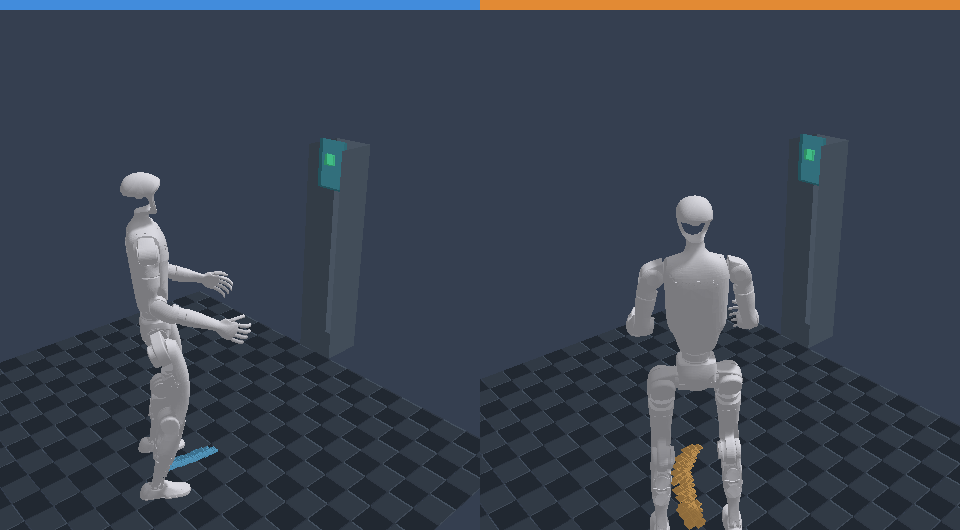
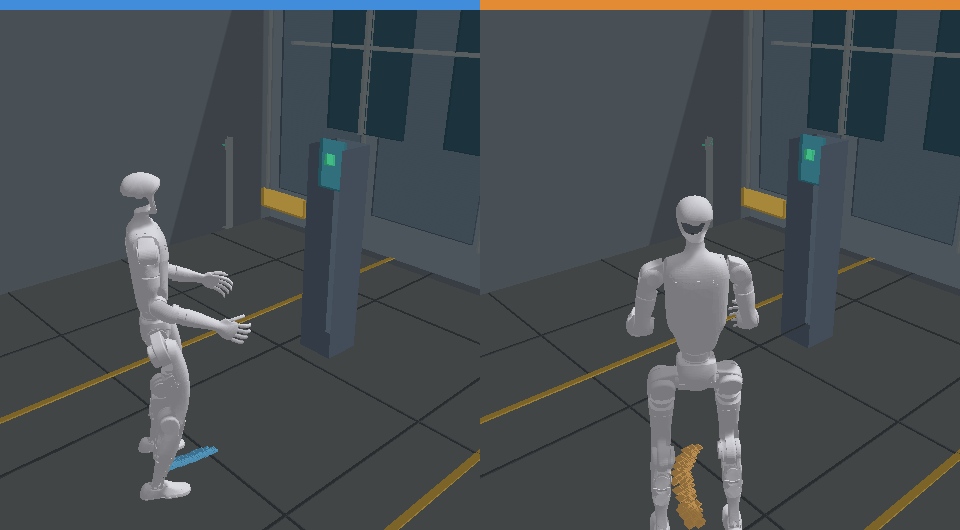
improve G1 hero test bay background
Replace the flat G1 stride hero backdrop with a render-only robotics test bay, regenerate media, and document the visual-only environment.

diff --git a/examples/63_g1_stride_gif/main.rs b/examples/63_g1_stride_gif/main.rs
@@ -39,7 +39,7 @@ const WALK_STRIDE_RAD: f64 = 0.065;
 const WALK_FOOT_LIFT_RAD: f64 = 0.12;
 const WALK_CYCLE_STEPS: u64 = 100;
 const TRAIL_EVERY_STEPS: u64 = 36;
-const CLEAR_COLOR: [f32; 4] = [0.035, 0.05, 0.08, 1.0];
+const CLEAR_COLOR: [f32; 4] = [0.025, 0.035, 0.05, 1.0];
 const COMMAND_MIN_WINDOW_M: f64 = 0.12;
 
 const TORQUE_LINKS: [&str; 8] = [
@@ -362,11 +362,10 @@ fn render_panel(
     scene.items.retain(|item| {
         !matches!(item.shape, VisualShape::Box { size_m } if size_m.x > 5.0 && size_m.z > 5.0)
     });
-    append_checker_floor(
+    append_realistic_test_bay(
         &mut scene,
         walker.capture_start_xz_m[0],
         walker.capture_start_xz_m[1],
-        0.12,
     );
     for position in &walker.trail_m {
         scene.items.push(RenderSceneItem {
@@ -400,32 +399,159 @@ fn render_panel(
     output.color.rgba8
 }
 
-fn append_checker_floor(scene: &mut RenderScene, center_x_m: f64, center_z_m: f64, tile_m: f64) {
-    let snap = |value: f64| (value / (2.0 * tile_m)).floor() * 2.0 * tile_m;
-    for row in -9..=9 {
-        for column in -9..=9 {
-            let color = if (row + column) & 1 == 0 {
-                [0.11, 0.15, 0.21, 1.0]
-            } else {
-                [0.055, 0.075, 0.11, 1.0]
-            };
-            scene.items.push(RenderSceneItem {
-                transform: Transform3 {
-                    translation: Vec3::new(
-                        snap(center_x_m) + column as f64 * tile_m,
-                        -0.008,
-                        snap(center_z_m) + row as f64 * tile_m,
-                    ),
-                    rotation: rne_math::Quat::IDENTITY,
-                    scale: Vec3::new(tile_m * 0.96, 0.008, tile_m * 0.96),
-                },
-                shape: VisualShape::Box { size_m: Vec3::ONE },
-                color_rgba: color,
-                mesh: None,
-                base_color_texture: None,
-            });
-        }
+fn append_realistic_test_bay(scene: &mut RenderScene, center_x_m: f64, center_z_m: f64) {
+    // The G1 physics scene intentionally stays minimal. These render-only props make the
+    // hero capture read as a real robotics test bay without changing contacts or dynamics.
+    const FLOOR: [f32; 4] = [0.19, 0.21, 0.22, 1.0];
+    const FLOOR_SEAM: [f32; 4] = [0.075, 0.09, 0.10, 1.0];
+    const SAFETY_YELLOW: [f32; 4] = [0.72, 0.46, 0.08, 1.0];
+    const WALL: [f32; 4] = [0.14, 0.17, 0.20, 1.0];
+    const WALL_PANEL: [f32; 4] = [0.09, 0.13, 0.17, 1.0];
+    const METAL: [f32; 4] = [0.30, 0.34, 0.36, 1.0];
+    const WINDOW: [f32; 4] = [0.035, 0.10, 0.14, 1.0];
+    const LIGHT: [f32; 4] = [0.82, 0.86, 0.78, 1.0];
+    const STATUS: [f32; 4] = [0.10, 0.74, 0.48, 1.0];
+
+    let floor_center = Vec3::new(center_x_m + 0.25, -0.035, center_z_m - 0.35);
+    push_box(scene, floor_center, Vec3::new(5.4, 0.07, 4.6), FLOOR);
+
+    for x_offset in [-1.8, -0.9, 0.0, 0.9, 1.8] {
+        push_box(
+            scene,
+            Vec3::new(center_x_m + x_offset, 0.004, center_z_m - 0.35),
+            Vec3::new(0.012, 0.006, 4.35),
+            FLOOR_SEAM,
+        );
     }
+    for z_offset in [-1.4, -0.45, 0.5, 1.45] {
+        push_box(
+            scene,
+            Vec3::new(center_x_m + 0.25, 0.004, center_z_m + z_offset),
+            Vec3::new(5.25, 0.006, 0.012),
+            FLOOR_SEAM,
+        );
+    }
+
+    // A pair of inset safety lines gives the walking lane a scale cue and keeps the
+    // measured trails readable against the matte floor.
+    for z_offset in [-0.82, 0.82] {
+        push_box(
+            scene,
+            Vec3::new(center_x_m + 0.25, 0.009, center_z_m + z_offset),
+            Vec3::new(4.8, 0.008, 0.035),
+            SAFETY_YELLOW,
+        );
+    }
+
+    // Corner walls: the camera looks into the corner, so the clear color is only a
+    // narrow upper margin rather than an empty flat backdrop.
+    push_box(
+        scene,
+        Vec3::new(center_x_m + 2.45, 1.35, center_z_m - 0.35),
+        Vec3::new(0.10, 2.7, 4.7),
+        WALL,
+    );
+    push_box(
+        scene,
+        Vec3::new(center_x_m + 0.25, 1.35, center_z_m - 2.25),
+        Vec3::new(4.5, 2.7, 0.10),
+        WALL,
+    );
+
+    // Recessed blue wall panels and a few narrow metal mullions suggest a real
+    // calibration room while remaining cheap primitive geometry.
+    for z_offset in [-1.55, -0.55, 0.45, 1.45] {
+        push_box(
+            scene,
+            Vec3::new(center_x_m + 2.385, 1.42, center_z_m + z_offset),
+            Vec3::new(0.018, 2.15, 0.84),
+            WALL_PANEL,
+        );
+        push_box(
+            scene,
+            Vec3::new(center_x_m + 2.32, 1.42, center_z_m + z_offset - 0.5),
+            Vec3::new(0.025, 2.18, 0.018),
+            METAL,
+        );
+    }
+    for z_offset in [-1.05, -0.05, 0.95] {
+        push_box(
+            scene,
+            Vec3::new(center_x_m + 2.31, 1.55, center_z_m + z_offset),
+            Vec3::new(0.026, 1.18, 0.68),
+            WINDOW,
+        );
+        push_box(
+            scene,
+            Vec3::new(center_x_m + 2.285, 1.55, center_z_m + z_offset - 0.36),
+            Vec3::new(0.032, 0.025, 0.72),
+            METAL,
+        );
+        push_box(
+            scene,
+            Vec3::new(center_x_m + 2.285, 1.55, center_z_m + z_offset + 0.36),
+            Vec3::new(0.032, 0.025, 0.72),
+            METAL,
+        );
+        push_box(
+            scene,
+            Vec3::new(center_x_m + 2.275, 1.55, center_z_m + z_offset),
+            Vec3::new(0.035, 1.18, 0.025),
+            METAL,
+        );
+    }
+
+    // A low service rail and a few status strips add depth behind the robot without
+    // competing with the white G1 body.
+    push_box(
+        scene,
+        Vec3::new(center_x_m + 1.95, 0.42, center_z_m - 2.17),
+        Vec3::new(0.08, 0.78, 0.08),
+        METAL,
+    );
+    push_box(
+        scene,
+        Vec3::new(center_x_m + 1.95, 0.78, center_z_m - 2.17),
+        Vec3::new(0.08, 0.06, 0.08),
+        STATUS,
+    );
+    push_box(
+        scene,
+        Vec3::new(center_x_m + 2.38, 0.22, center_z_m - 1.92),
+        Vec3::new(0.04, 0.16, 0.52),
+        SAFETY_YELLOW,
+    );
+
+    // Suspended LED panels catch the existing directional shadows and make the
+    // ceiling area feel intentional without adding a second render pass.
+    for z_offset in [-1.2, 0.0, 1.2] {
+        push_box(
+            scene,
+            Vec3::new(center_x_m + 0.20, 2.55, center_z_m + z_offset),
+            Vec3::new(0.72, 0.035, 0.18),
+            LIGHT,
+        );
+        push_box(
+            scene,
+            Vec3::new(center_x_m + 0.20, 2.49, center_z_m + z_offset),
+            Vec3::new(0.06, 0.12, 0.06),
+            METAL,
+        );
+    }
+}
+
+fn push_box(scene: &mut RenderScene, translation: Vec3, size_m: Vec3, color_rgba: [f32; 4]) {
+    scene.items.push(RenderSceneItem {
+        transform: Transform3 {
+            translation,
+            rotation: rne_math::Quat::IDENTITY,
+            scale: size_m,
+        },
+        shape: VisualShape::Box { size_m: Vec3::ONE },
+        color_rgba,
+        mesh: None,
+        base_color_texture: None,
+    });
 }
 
 fn composite_side_by_side(left: &[u8], right: &[u8]) -> Vec<u8> {

diff --git a/README.md b/README.md
@@ -339,10 +339,10 @@ cargo run -p unitree_g1_gif --example 39_unitree_g1_gif
 <p align="center">
   <picture>
     <source media="(prefers-reduced-motion: reduce)" srcset="docs/media/unitree-g1-learned-stride.png">
-    <img src="docs/media/unitree-g1-learned-stride.gif" alt="Side-by-side official Unitree G1 stepper and command-conditioned differential-steering stride, with measured-window trails" width="960">
+    <img src="docs/media/unitree-g1-learned-stride.gif" alt="Side-by-side official Unitree G1 stepper and command-conditioned differential-steering stride in a robotics test bay, with measured-window trails" width="960">
   </picture>
   <br>
-  <sub>The blue panel is the plain hybrid stepper at the v0.1 forward command (<code>0.0276&nbsp;m/s</code>); the orange panel uses the pinned learned torque overlay with the same speed command plus <code>+0.05&nbsp;rad/s</code> differential steering. Both panels discard the same 8&nbsp;s transient before the commanded walker clears <code>0.196&nbsp;m</code> and <code>0.235&nbsp;m</code> in its measured windows while staying at full height. The real wgpu capture is generated by example 63; the headless smoke path is part of CI.</sub>
+  <sub>The blue panel is the plain hybrid stepper at the v0.1 forward command (<code>0.0276&nbsp;m/s</code>); the orange panel uses the pinned learned torque overlay with the same speed command plus <code>+0.05&nbsp;rad/s</code> differential steering. Both panels discard the same 8&nbsp;s transient before the commanded walker clears <code>0.196&nbsp;m</code> and <code>0.235&nbsp;m</code> in its measured windows while staying at full height. The real wgpu capture is staged in a render-only robotics test bay with floor panels, safety markings, an equipment wall, and overhead fixtures; example 63 generates it, while the headless smoke path remains part of CI.</sub>
 </p>
 
 ```bash

diff --git a/docs/G1_LOCOMOTION.md b/docs/G1_LOCOMOTION.md
@@ -87,8 +87,11 @@ discard and measured-window protocol, with colored trails showing the late
 window displacement. The current capture measures 0.196 m and 0.235 m in the
 orange panel's two windows at 0.784 m minimum height. It writes
 `docs/media/unitree-g1-learned-stride.gif` and the reduced-motion
-`docs/media/unitree-g1-learned-stride.png`. The example's `--smoke` mode runs
-the commanded physics path without a renderer so CI does not depend on a GPU.
+`docs/media/unitree-g1-learned-stride.png`. The capture now uses a render-only
+robotics test bay: matte floor panels, safety lane markings, an equipment wall,
+service rail, and suspended LED fixtures. These visual props do not enter the
+physics scene; the example's `--smoke` mode still runs the commanded physics
+path without a renderer so CI does not depend on a GPU.
 
 The development profile uses `opt-level = 1` and the test profile uses
 `opt-level = 3`, while retaining debug assertions and symbols. Fully
